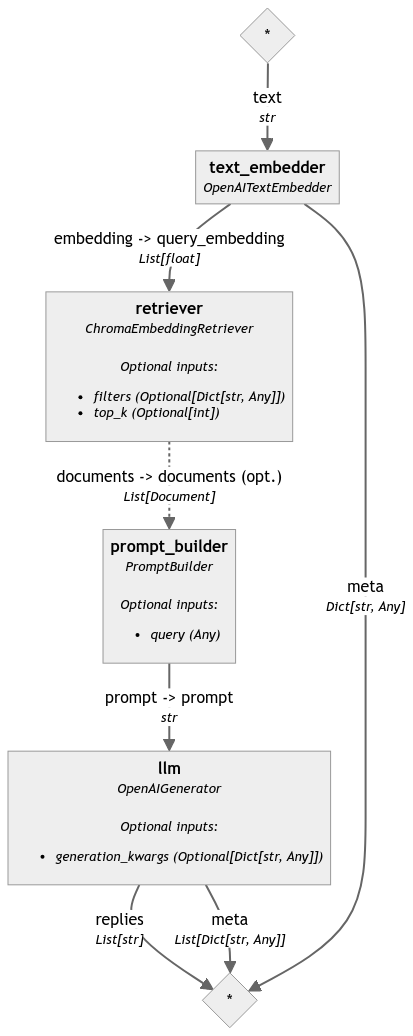
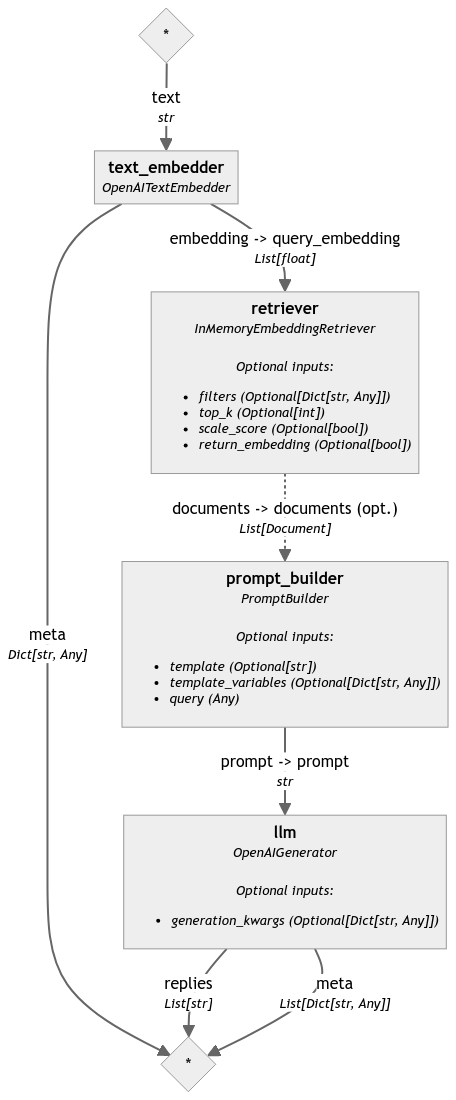
Replace Chroma DocumentStore with InMemory (#344)

diff --git a/content/overview/quick-start.md b/content/overview/quick-start.md
@@ -120,9 +120,10 @@ Try out how Haystack answers questions about the given documents using the **RAG
 {{< tabs totalTabs="3">}}
 
 {{< tab tabName="Quickstart: Ready-Made Template"  >}}
-First, install Haystack and the [Chroma integration](https://haystack.deepset.ai/integrations/chroma-documentstore) (we will use it as our document store):
+Install Haystack:
+
 ```bash
-pip install haystack-ai chroma-haystack
+pip install haystack-ai 
 ```
 
 ```python
@@ -146,29 +147,29 @@ print(result["llm"]["replies"][0])
 {{< /tab  >}}
 
 {{< tab tabName="Corresponding Pipeline"  >}}
-First, install Haystack and the [Chroma integration](https://haystack.deepset.ai/integrations/chroma-documentstore) (we will use it as our document store):
+Install Haystack:
+
 ```bash
-pip install haystack-ai chroma-haystack
+pip install haystack-ai
 ```
 ```python
 import os
+import urllib.request
 
 from haystack import Pipeline
-from haystack_integrations.document_stores.chroma import ChromaDocumentStore
+from haystack.document_stores.in_memory import InMemoryDocumentStore
+from haystack.components.retrievers import InMemoryEmbeddingRetriever
 from haystack.components.converters import TextFileToDocument
 from haystack.components.preprocessors import DocumentCleaner, DocumentSplitter
 from haystack.components.embedders import OpenAIDocumentEmbedder, OpenAITextEmbedder
 from haystack.components.writers import DocumentWriter
-
-from haystack_integrations.components.retrievers.chroma import ChromaEmbeddingRetriever
 from haystack.components.builders import PromptBuilder
 from haystack.components.generators import OpenAIGenerator
-import urllib.request
 
 os.environ["OPENAI_API_KEY"] = "Your OpenAI API Key"
 urllib.request.urlretrieve("https://www.gutenberg.org/cache/epub/7785/pg7785.txt", "davinci.txt")  
 
-document_store = ChromaDocumentStore(persist_path=".")
+document_store = InMemoryDocumentStore()
 
 text_file_converter = TextFileToDocument()
 cleaner = DocumentCleaner()
@@ -190,7 +191,7 @@ indexing_pipeline.connect("embedder.documents", "writer.documents")
 indexing_pipeline.run(data={"sources": ["davinci.txt"]})
 
 text_embedder = OpenAITextEmbedder()
-retriever = ChromaEmbeddingRetriever(document_store)
+retriever = InMemoryEmbeddingRetriever(document_store)
 template = """Given these documents, answer the question.
               Documents:
               {% for doc in documents %}
@@ -211,7 +212,7 @@ rag_pipeline.connect("text_embedder.embedding", "retriever.query_embedding")
 rag_pipeline.connect("retriever.documents", "prompt_builder.documents")
 rag_pipeline.connect("prompt_builder", "llm")
 
-query = "How old was he when he died?"
+query = "How old was Leonardo when he died?"
 result = rag_pipeline.run(data={"prompt_builder": {"query":query}, "text_embedder": {"text": query}})
 print(result["llm"]["replies"][0])
 ```
